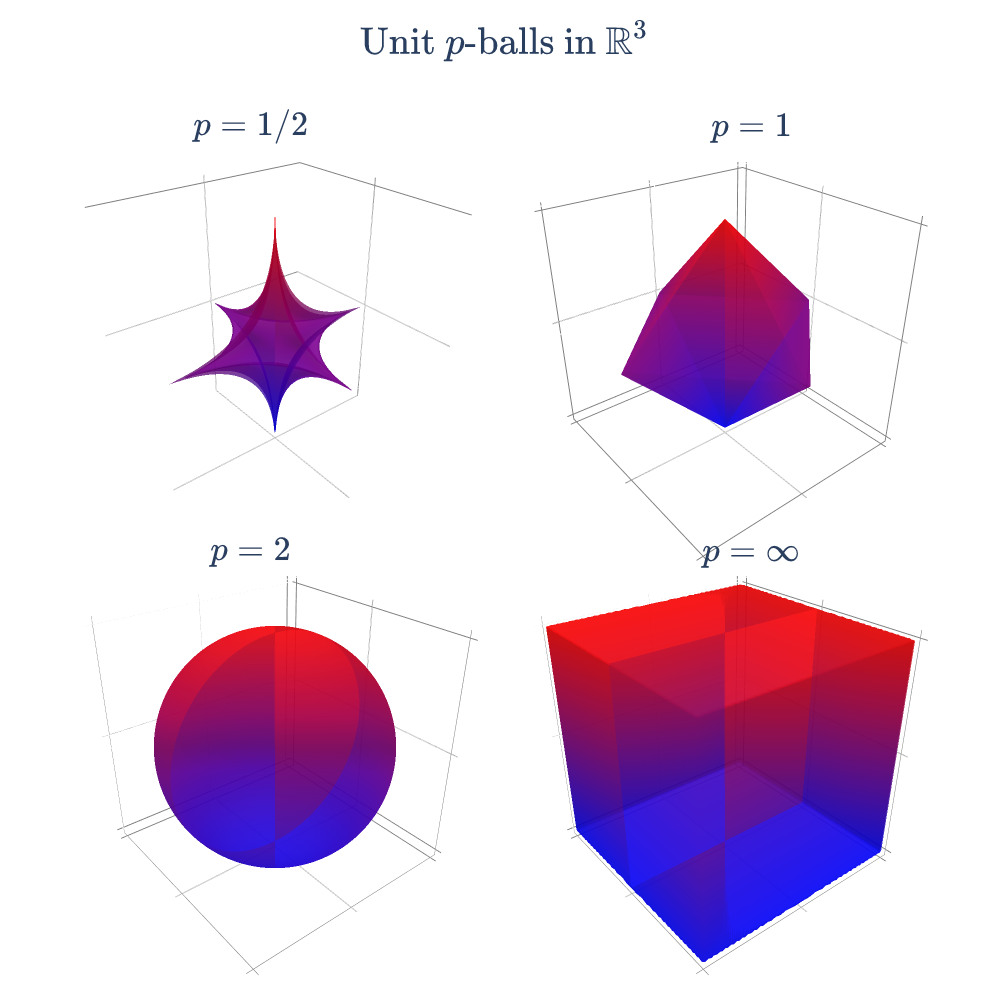
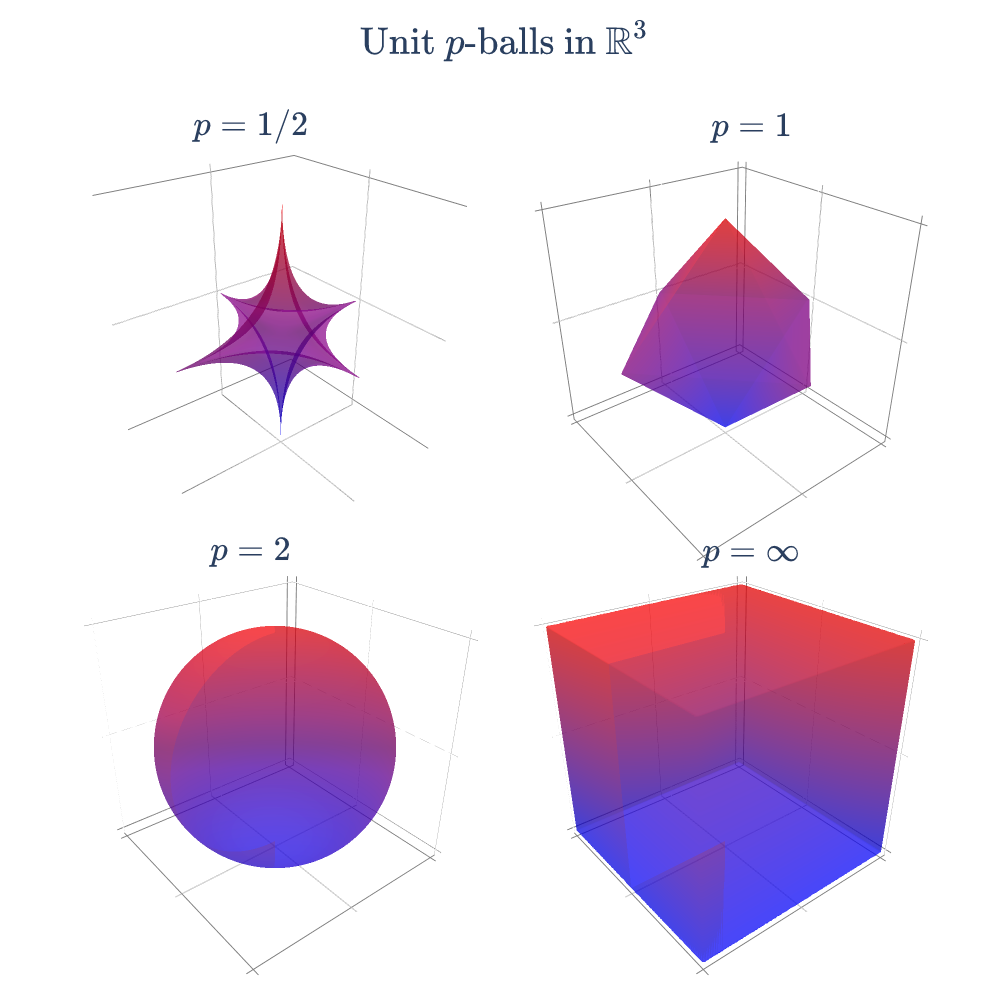
Changed the range of variable u following Cedric's suggestion, which gives balls with empty interiors

diff --git a/norm_balls.py b/norm_balls.py
@@ -29,7 +29,8 @@ for idx_t, t in enumerate(t_vec[:-1]): # to create the different camera views
     #  MAKE BALLS
 
     # L2 ball
-    u, v = np.mgrid[0:2*np.pi:500j, 0:2*np.pi:500j]
+    # u, v = np.mgrid[0:2*np.pi:500j, 0:2*np.pi:500j] # Original 
+    u, v = np.mgrid[0:np.pi:500j, 0:2*np.pi:500j] # Cedric's version
     x2 = np.sin(u) * np.cos(v)
     y2 = np.sin(u) * np.sin(v)
     z2 = np.cos(u)
